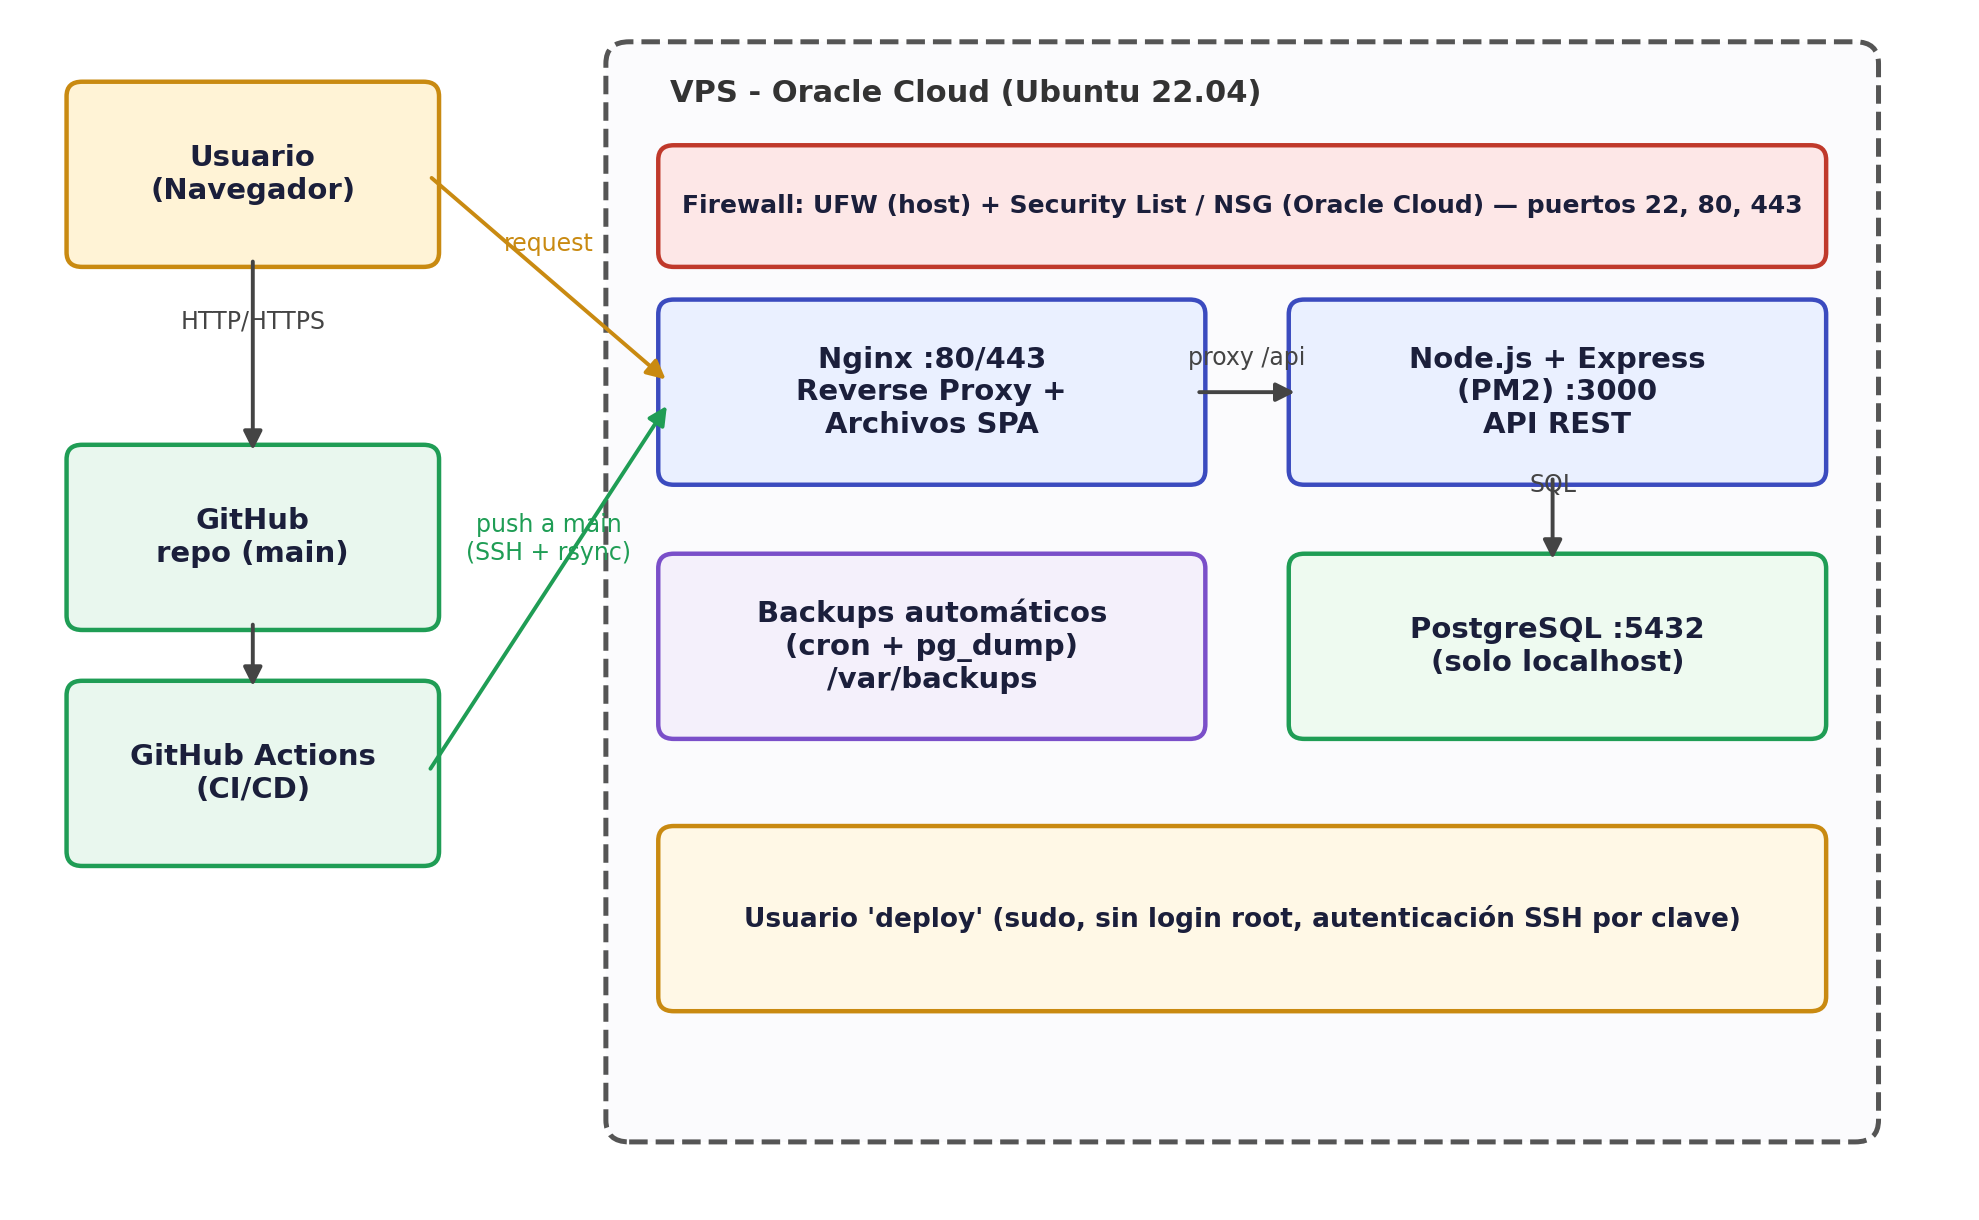
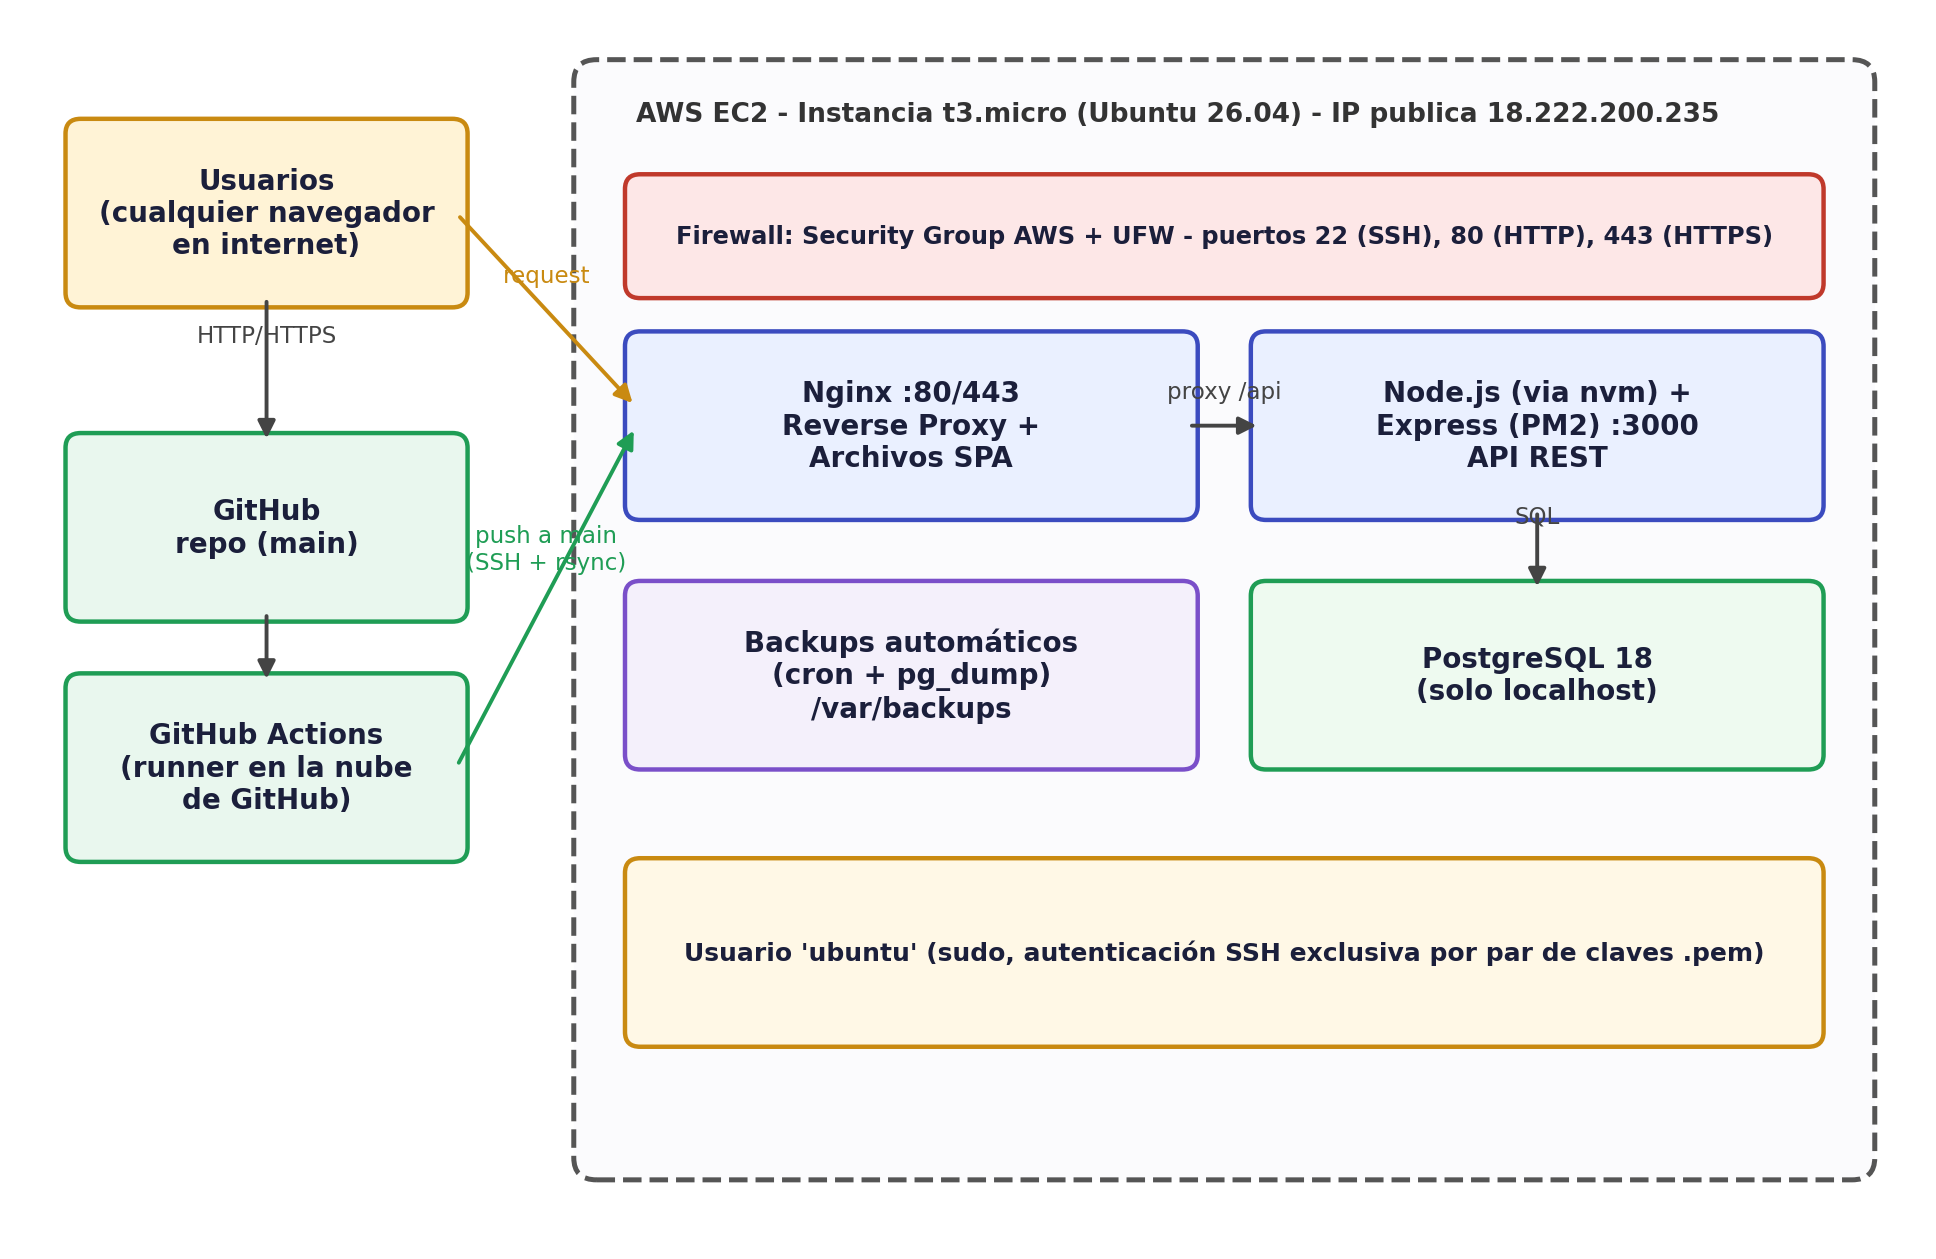
Migrar CI/CD a VPS real en AWS (SSH+rsync)

diff --git a/frontend/index.html b/frontend/index.html
@@ -188,7 +188,7 @@
 </head>
 <body>
   <div class="sheet">
-    <div class="eyebrow">Mi agenda personal</div>
+    <div class="eyebrow">Agenda personal</div>
     <h1>Mis tareas</h1>
     <p class="subhead">Anotá lo pendiente, marcá lo hecho, filtrá lo que buscás.</p>
 
